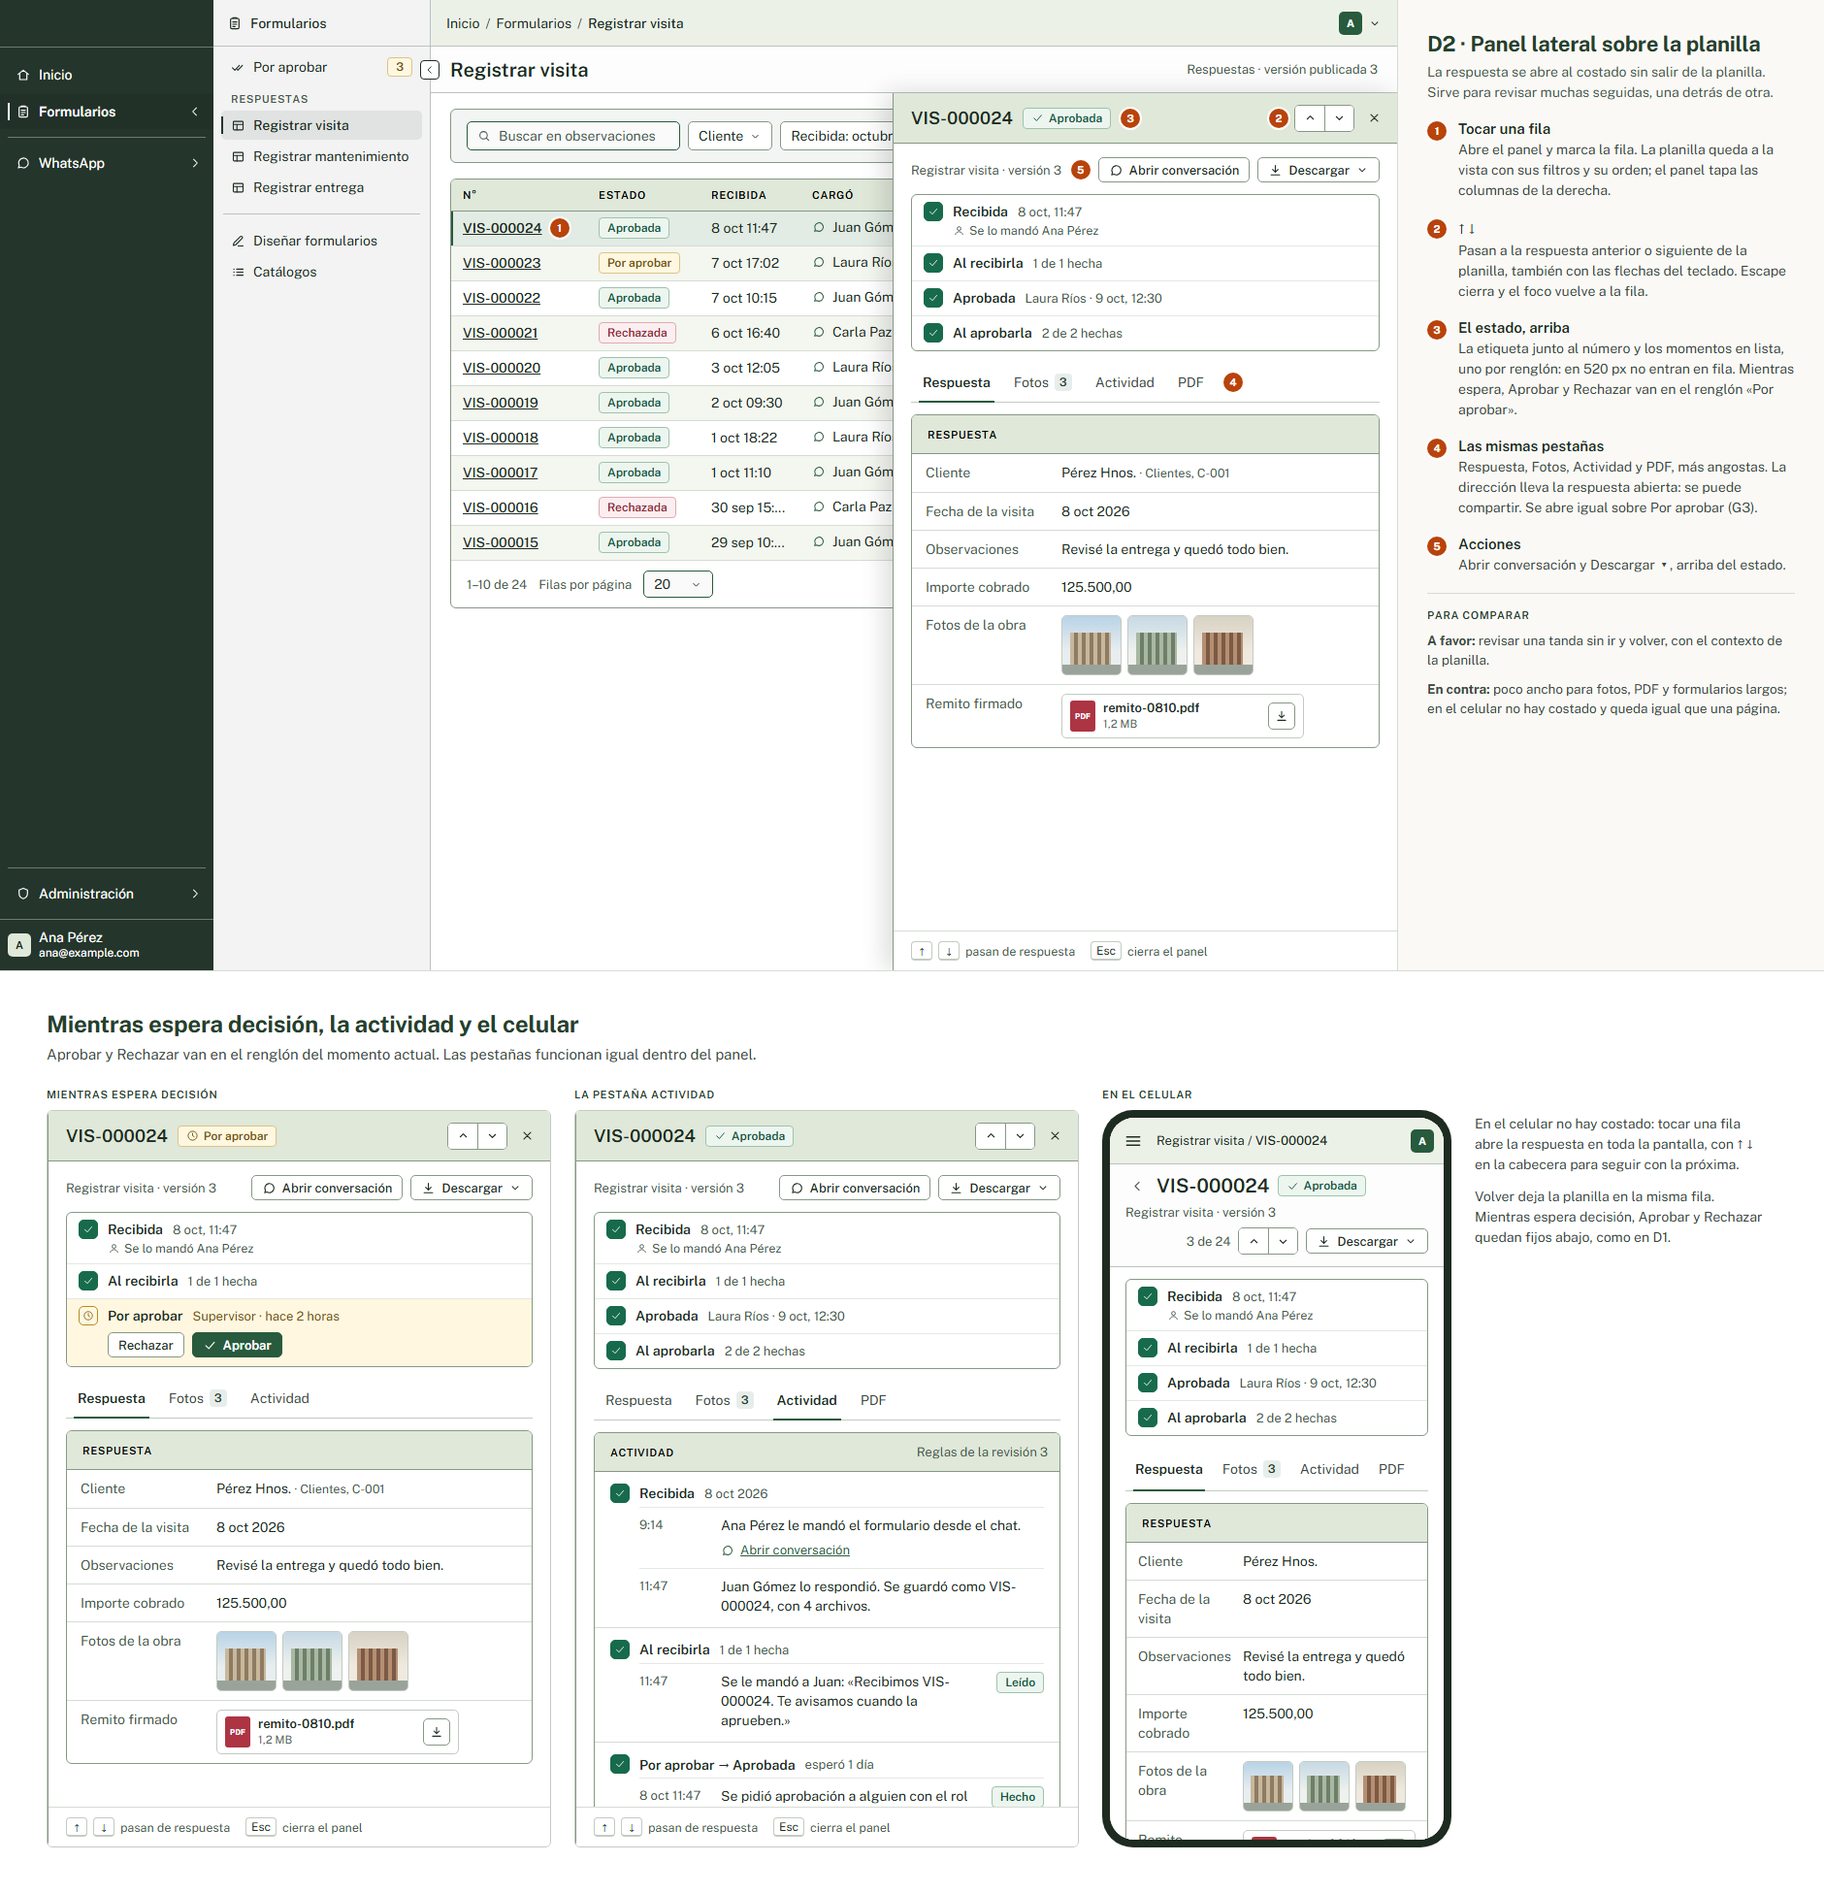
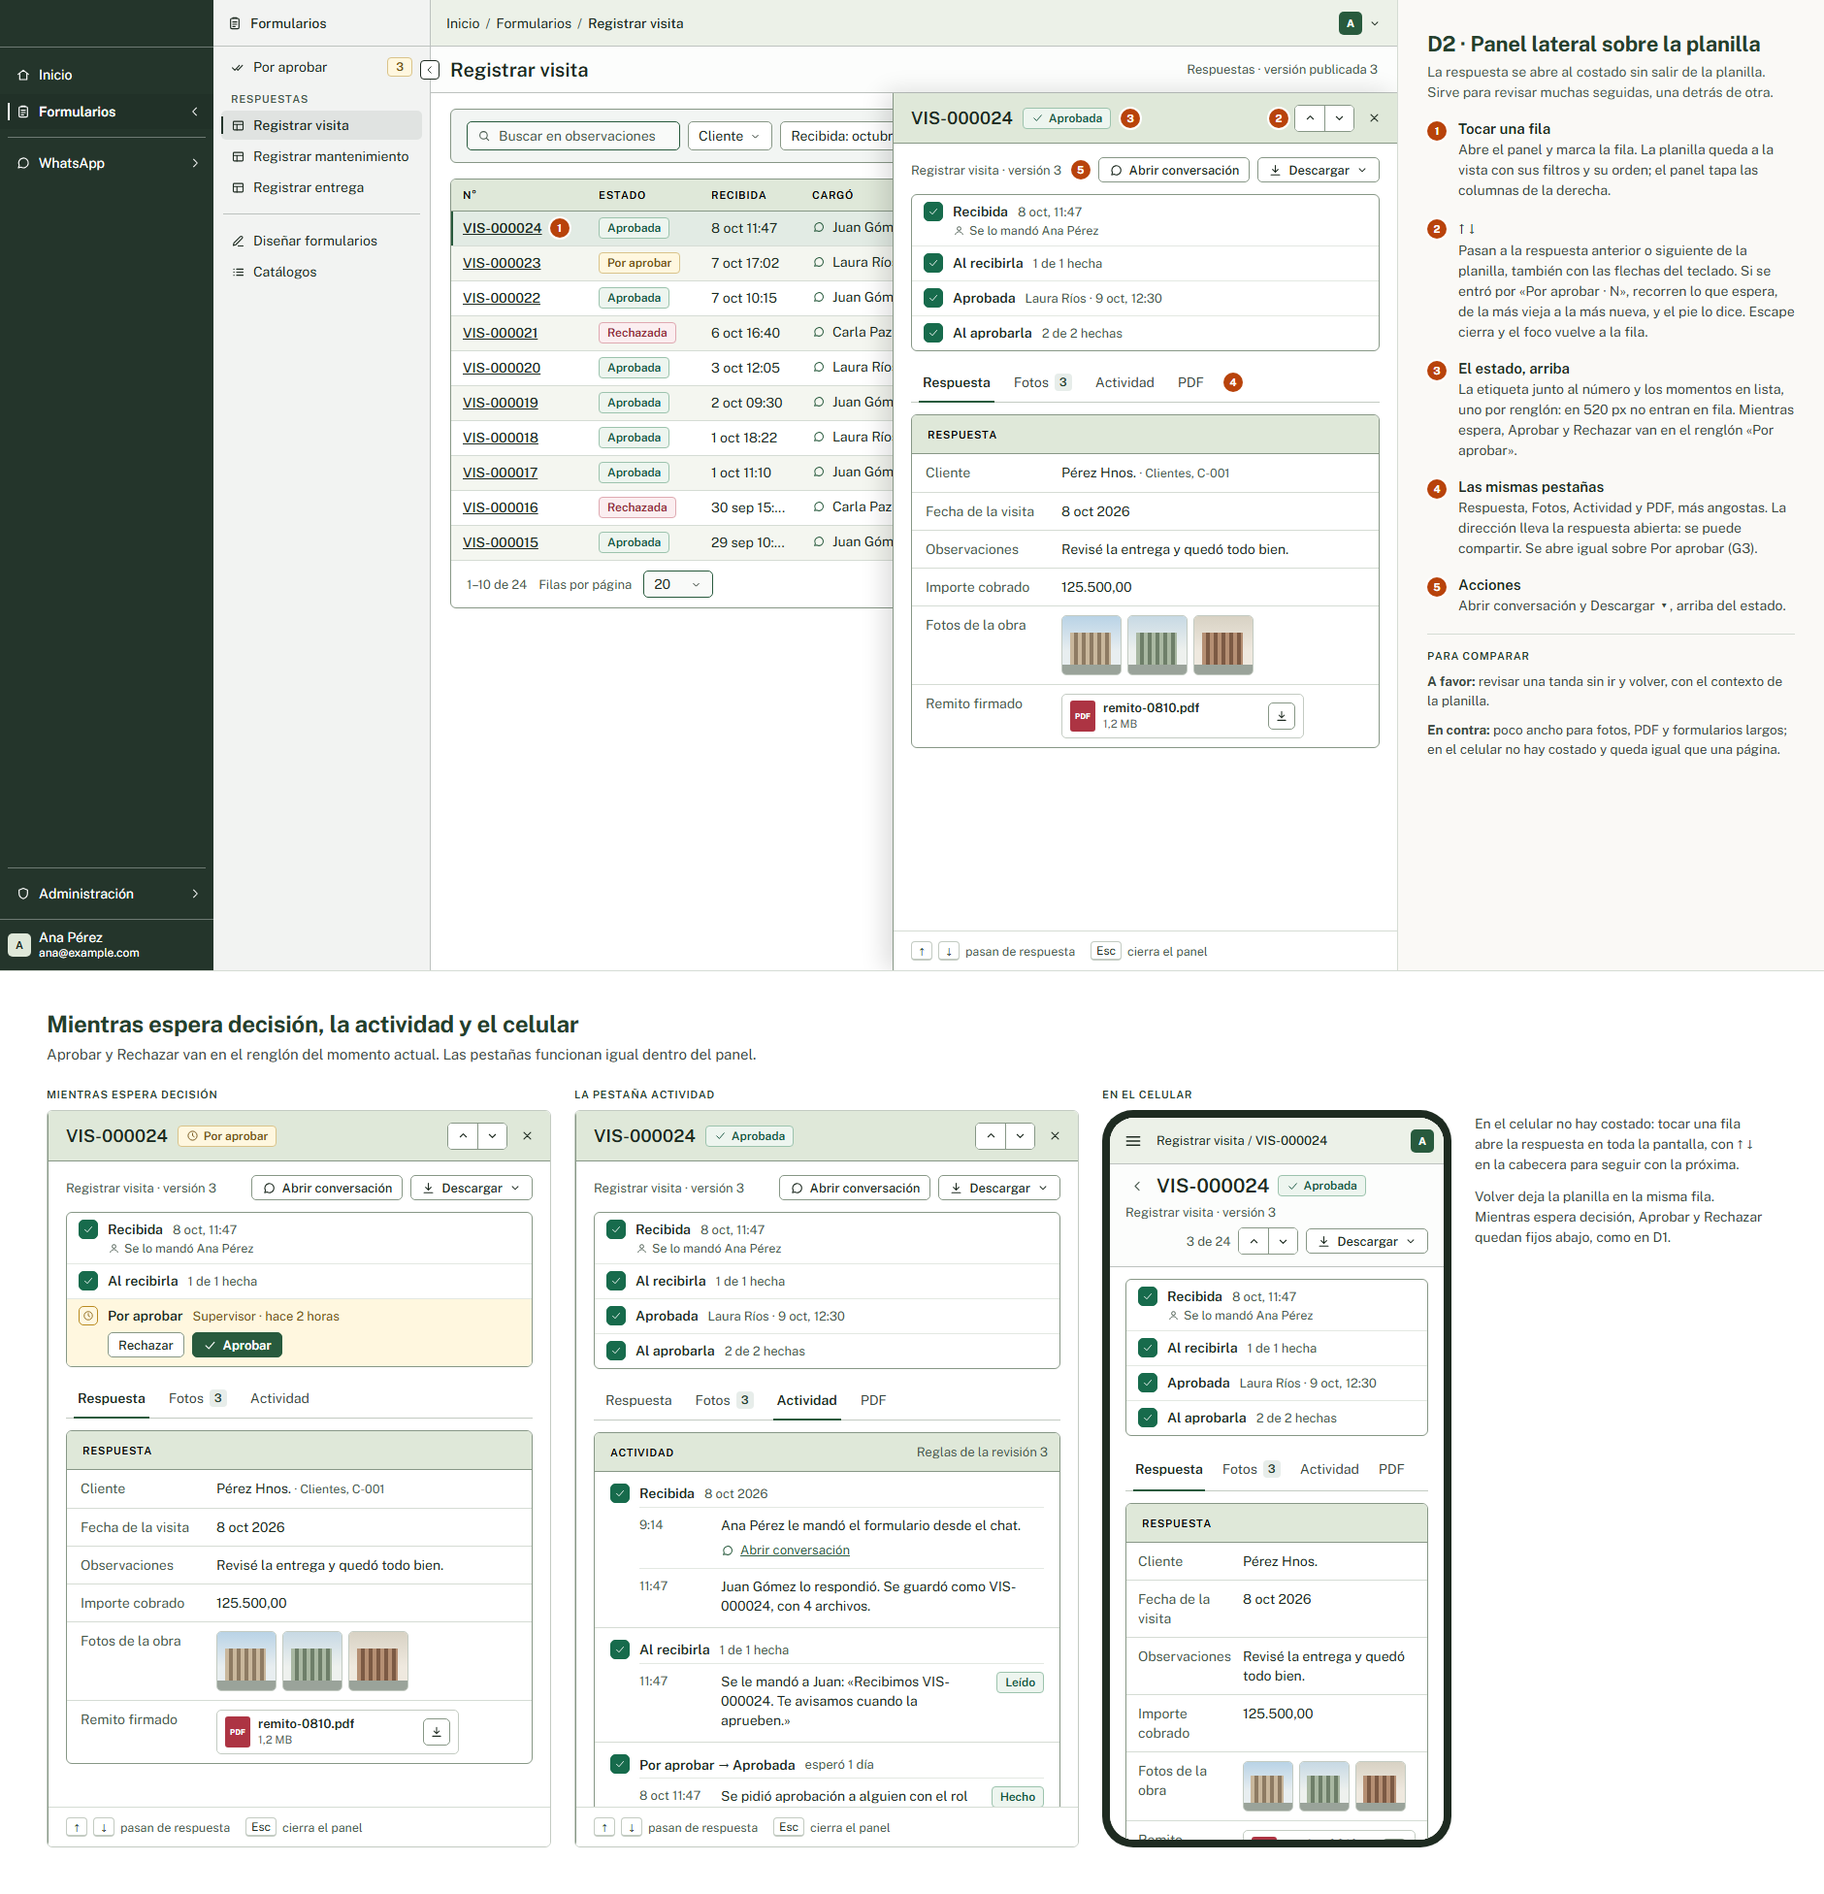
docs(formularios): anotar los ajustes de los tableros y BA6
Filas de D2, DC0, BA1-A y MF1 con los ajustes de la guía (versión 96 del lienzo), la fila nueva de BA6 y su evidencia.

Changed region(s): [[0.7713, 0.125, 0.9872, 0.4062]]

diff --git a/docs/design/formularios-whatsapp.md b/docs/design/formularios-whatsapp.md
@@ -178,7 +178,7 @@ que reunían el detalle en una sola columna. **Elegido D2**, que reemplaza ese d
 
 | Captura | Qué define |
 | --- | --- |
-| [D2 · Panel lateral sobre la planilla](evidence/formularios-whatsapp/det-d2-panel.png) | **Elegido el 2026-10-17.** Tocar una fila abre la respuesta al costado, sin salir de la planilla; ↑ ↓ (también las flechas del teclado) pasan de respuesta y Escape cierra. Arriba, el estado y los momentos uno por renglón, armados con las reglas que tenía el formulario al llegar la respuesta: Recibida con su origen, Por aprobar → Aprobada o Rechazada y lo que pasó al recibirla, aprobarla o rechazarla, con el resumen de sus acciones; lo que no aplica no se muestra. Mientras espera, Aprobar y Rechazar van en el renglón «Por aprobar». Pestañas Respuesta («pregunta · valor» con las fotos), Fotos, Actividad (las acciones por momento, con Consultar o Reintentar) y PDF (cuando hay copia), más Abrir conversación y Descargar ▾. En el celular ocupa la pantalla, con ↑ ↓ arriba y la decisión fija abajo. Desde el 2026-10-20 es la vista rápida: la pantalla completa es DC1 ajustado (abajo). |
+| [D2 · Panel lateral sobre la planilla](evidence/formularios-whatsapp/det-d2-panel.png) | **Elegido el 2026-10-17.** Tocar una fila abre la respuesta al costado, sin salir de la planilla; ↑ ↓ (también las flechas del teclado) pasan de respuesta y Escape cierra. Arriba, el estado y los momentos uno por renglón, armados con las reglas que tenía el formulario al llegar la respuesta: Recibida con su origen, Por aprobar → Aprobada o Rechazada y lo que pasó al recibirla, aprobarla o rechazarla, con el resumen de sus acciones; lo que no aplica no se muestra. Mientras espera, Aprobar y Rechazar van en el renglón «Por aprobar». Pestañas Respuesta («pregunta · valor» con las fotos), Fotos, Actividad (las acciones por momento, con Consultar o Reintentar) y PDF (cuando hay copia), más Abrir conversación y Descargar ▾. En el celular ocupa la pantalla, con ↑ ↓ arriba y la decisión fija abajo. Desde el 2026-10-20 es la vista rápida: la pantalla completa es DC1 ajustado (abajo). Entrando por «Por aprobar · N», ↑ ↓ recorren lo que espera, de la más vieja a la más nueva, y el pie del panel lo dice (ajuste del 2026-10-20, versión 96). |
 
 D2 está implementado sobre esos tableros: el panel conserva el listado y su orden; los momentos proceden de acciones ya capturadas, no de reglas actuales. El selector Estado y la marca PDF de la planilla usan el contrato del servidor; la decisión sin lectura de respuestas conserva sólo metadata. La [verificación del cierre](../../../ArquitecturaBase/docs/features/formularios.md#cierre-local-de-la-etapa-5-y-del-review-de-la-etapa-4) acredita navegador, capturas visuales y consumidores HTTP actuales, con sus límites explícitos.
 
@@ -188,7 +188,7 @@ lienzo como las alternativas que no se eligieron.
 
 | Captura | Qué define |
 | --- | --- |
-| [DC0 · De la vista rápida a la pantalla completa](evidence/formularios-whatsapp/det-dc0-vista-rapida.png) | **Elegido el 2026-10-20.** El panel D2 suma «Abrir en pantalla completa» en su cabecera. La pantalla completa tiene su dirección, se puede compartir y «Volver» lleva a la planilla con la misma fila, los filtros y el orden; ↑ ↓ también pasan de respuesta ahí. Quien solo aprueba no tiene pantalla completa: el panel ya muestra la tarea. En el celular no hay vista rápida: tocar una fila abre la pantalla completa, en una columna. |
+| [DC0 · De la vista rápida a la pantalla completa](evidence/formularios-whatsapp/det-dc0-vista-rapida.png) | **Elegido el 2026-10-20.** El panel D2 suma «Abrir en pantalla completa» en su cabecera. La pantalla completa tiene su dirección, se puede compartir y «Volver» lleva a la planilla con la misma fila, los filtros y el orden; ↑ ↓ también pasan de respuesta ahí: entrando por «Por aprobar · N», lo que espera, de la más vieja a la más nueva («2 de 2 por aprobar»); por la planilla, la planilla («1 de 24»). Abierta desde un enlace compartido, no trae la búsqueda ni las personas filtradas, porque los datos privados no van en la dirección; ↑ ↓ siguen el orden y las versiones de la planilla (ajuste del 2026-10-20, versión 96). Quien solo aprueba no tiene pantalla completa: el panel ya muestra la tarea. En el celular no hay vista rápida: tocar una fila abre la pantalla completa, en una columna. |
 | [DC1 ajustado · Respuesta y actividad](evidence/formularios-whatsapp/det-dc1-ajustado.png) | **Elegido el 2026-10-20.** Arriba, ↑ ↓, Abrir conversación, Descargar ▾ (el comprobante PDF y los documentos) y, mientras espera, Rechazar y Aprobar; la cabecera no repite el formulario, que está en las migas. Dos secciones a todo el ancho, que se pliegan con la flecha y, plegadas, dicen lo que tienen: «Respuesta» («pregunta · valor» con las fotos y el remito, y la versión del formulario) y «Actividad», contada como historia: quién la respondió y quién se la mandó, lo que se hizo al recibirla, la decisión y lo que se hizo después, con el PDF en «Al aprobarla» (vista previa chica y Descargar). Sin «De dónde vino», sin el PDF al costado y sin la fila de momentos de arriba. |
 
 Etapa 5, el asistente (2026-10-10), con reglas vigentes en [ofrecimiento y prellenado](../../../ArquitecturaBase/docs/features/formularios.md#indicación-de-ofrecimiento--etapa-5), [sugerencias entre formularios](../../../ArquitecturaBase/docs/features/formularios.md#configuración-de-qué-sugerir-después--etapa-5) y [WhatsApp](../../../ArquitecturaBase/docs/features/whatsapp.md). También son de esta etapa «Cuándo lo ofrece» (03),
@@ -232,22 +232,25 @@ mezclar. **I1–I3 se eligieron el 2026-10-18**: reemplazan lo de E y P1 sobre l
 Dar de baja, reactivar y eliminar (2026-10-20, versión 88 del lienzo), con las reglas de
 [dar-de-baja-formularios.md](../../../ArquitecturaBase/docs/plans/formularios/dar-de-baja-formularios.md). BA1 tenía dos
 conceptos de dónde viven las acciones: A, en la fila; B, en una ficha al costado. **BA1-A y BA2–BA5 se eligieron el
-2026-10-20**; por programar.
+2026-10-20**; por programar. Se ajustaron el mismo día con la guía (versión 96 del lienzo): «Activos» y «Dados de baja»
+con las mismas palabras que Formularios, el celular conserva la tabla y BA6 marca las sugerencias hacia un dado de baja.
 
 | Captura | Qué define |
 | --- | --- |
-| [BA1-A · Las acciones en la fila](evidence/formularios-whatsapp/baja-ba1-a-fila.png) | **Elegido el 2026-10-20.** Diseñar formularios suma «Dados de baja (N)» al segmentado y la columna Respuestas. El estado dice «Dado de baja · versión N» y, debajo, lo que pasa en WhatsApp. Las acciones de cada fila: Editar; Dar de baja en los publicados; Reactivar en los dados de baja; Eliminar, último, solo sin respuestas. Editar y Eliminar piden administrar; Dar de baja y Reactivar, publicar; lo que no se puede no se dibuja. En el celular, una tarjeta por formulario con los mismos íconos a 44 px. |
+| [BA1-A · Las acciones en la fila](evidence/formularios-whatsapp/baja-ba1-a-fila.png) | **Elegido el 2026-10-20.** El segmentado dice «Activos (N) · Publicados (N) · Borradores (N) · Dados de baja (N)», con las mismas palabras que Formularios: «Activos» son los publicados y los borradores, y los dados de baja van aparte (ajuste del 2026-10-20, versión 96). Suma la columna Respuestas. El estado dice «Dado de baja · versión N» y, debajo, lo que pasa en WhatsApp. Las acciones de cada fila: Editar; Dar de baja en los publicados; Reactivar en los dados de baja; Eliminar, último, solo sin respuestas. Editar y Eliminar piden administrar; Dar de baja y Reactivar, publicar; lo que no se puede no se dibuja. En el celular, la tabla y el segmentado se desplazan dentro de su caja, como todas las tablas. |
 | [BA2 · El editor](evidence/formularios-whatsapp/baja-ba2-editor.png) | **Elegido el 2026-10-20.** Un menú «⋯» junto a la acción principal, con las mismas acciones; lo que no se puede queda apagado con el motivo. El dado de baja muestra un aviso con quién y cuándo, que no se manda ni lo ofrece el asistente y que lo cargado se conserva, y WhatsApp en palabras: «Se deprecan cuando venzan los envíos abiertos», «Deprecados el …» o que no se pudo confirmar y se sigue consultando. Reactivar ocupa el lugar de «Publicar en WhatsApp». |
 | [BA3 · El diálogo «Dar de baja»](evidence/formularios-whatsapp/baja-ba3-dar-de-baja.png) | **Elegido el 2026-10-20.** Qué deja de pasar (el chat, el asistente y las sugerencias de otros formularios, con sus nombres), los envíos abiertos con el vencimiento del último, «En WhatsApp no se deshace» y lo que se conserva. Lo que no aplica no se muestra; error, 390 px e inglés. |
 | [BA4 · Reactivar y eliminar](evidence/formularios-whatsapp/baja-ba4-reactivar.png) | **Elegido el 2026-10-20.** Reactivar muestra la versión nueva, qué cambia, la numeración que sigue y la comprobación de siempre. Eliminar, solo sin respuestas: desaparece de los listados, el prefijo queda reservado y, si se publicó, sus Flows se deprecan. Con respuestas, Eliminar no está: el menú dice por qué. |
 | [BA5 · El circuito de punta a punta](evidence/formularios-whatsapp/baja-ba5-circuito.png) | **Elegido el 2026-10-20.** Activo, dar de baja, un envío abierto que se responde igual, deprecados en WhatsApp al vencer y reactivar con una versión nueva: qué hacen la persona, el sistema y el asistente en cada paso. |
+| [BA6 · Una sugerencia hacia un dado de baja](evidence/formularios-whatsapp/baja-ba6-sugerencias.png) | **Ajuste del 2026-10-20, versión 96.** En el editor de sugerencias de otro formulario, la fila que apunta a un dado de baja dice «Dado de baja», solo tiene Quitar y pide quitarla; mientras quede, Guardar sugerencias está apagado. Dar de baja no las borra: dejan de ofrecerse y, si se reactiva, vuelven las que quedaron. «Formulario a sugerir» solo ofrece publicados. |
 
 El menú de Formularios (2026-10-20, versión 88 del lienzo): tres conceptos, MF1–MF3, comparados con las capturas de hoy
 (MF0). **Elegido MF1**, por programar: cambia la decisión 1 (Navegación) y reemplaza el panel de T1 y la bandeja de G3.
+Se ajustó el mismo día con la guía (versión 96 del lienzo).
 
 | Captura | Qué define |
 | --- | --- |
-| [MF1 · Una tabla de formularios](evidence/formularios-whatsapp/menu-mf1-tabla.png) | **Elegido el 2026-10-20.** El grupo del menú pasa a llamarse «Gestión de formularios». Su panel tiene «Formularios», con lo que espera tu decisión, y Diseñar formularios, Catálogos y Formularios que faltan, como están. «Formularios» es una tabla: lo que cada uno tiene por aprobar, cuántas respuestas y la última con su estado; primero los que esperan aprobación y después por la última respuesta. «Con algo por aprobar» deja solo esos, incluidos los dados de baja que esperan una decisión; «Dados de baja (N)» los muestra aparte, con un aviso, y una línea arriba de la tabla avisa si alguno espera una decisión. Al entrar en un formulario, «Por aprobar · N», de la más vieja a la más nueva, arriba de la planilla; «Revisar» abre D2. No hay bandeja aparte. Quien solo ve respuestas, sin «Por aprobar» ni número; quien solo aprueba, los formularios con algo para decidir y la tarea sin las respuestas; sin permiso, no ve «Formularios». En el celular, una tarjeta por formulario. |
+| [MF1 · Una tabla de formularios](evidence/formularios-whatsapp/menu-mf1-tabla.png) | **Elegido el 2026-10-20.** El grupo del menú pasa a llamarse «Gestión de formularios». Su panel tiene «Formularios», con lo que espera tu decisión, y Diseñar formularios, Catálogos y Formularios que faltan, como están. «Formularios» es una tabla: lo que cada uno tiene por aprobar, cuántas respuestas y la última con su estado; primero los que esperan aprobación y después por la última respuesta. «Con algo por aprobar» deja solo esos, incluidos los dados de baja que esperan una decisión. El segmentado dice «Activos (N) · Dados de baja (N)», con las mismas palabras que Diseñar formularios: los dados de baja van aparte, con un aviso, y una línea arriba de la tabla avisa si alguno espera una decisión. Al entrar en un formulario, «Por aprobar · N», de la más vieja a la más nueva, arriba de la planilla; «Revisar» abre D2, y ahí ↑ ↓ recorren lo que espera en ese orden; desde la planilla, recorren la planilla. No hay bandeja aparte. Quien solo ve respuestas, sin «Por aprobar» ni número; quien solo aprueba, sus formularios con algo para decidir y cuántas, sin «Respuestas», «Última respuesta» ni «Con algo por aprobar», porque no puede ver respuestas, y al entrar, la tarea sin las respuestas; sin permiso, no ve «Formularios». En el celular, la misma tabla, con su desplazamiento contenido. Lo de quien solo aprueba, las flechas, el segmentado y el celular son ajustes del 2026-10-20 (versión 96). |
 
 ## Decisiones de diseño
 
